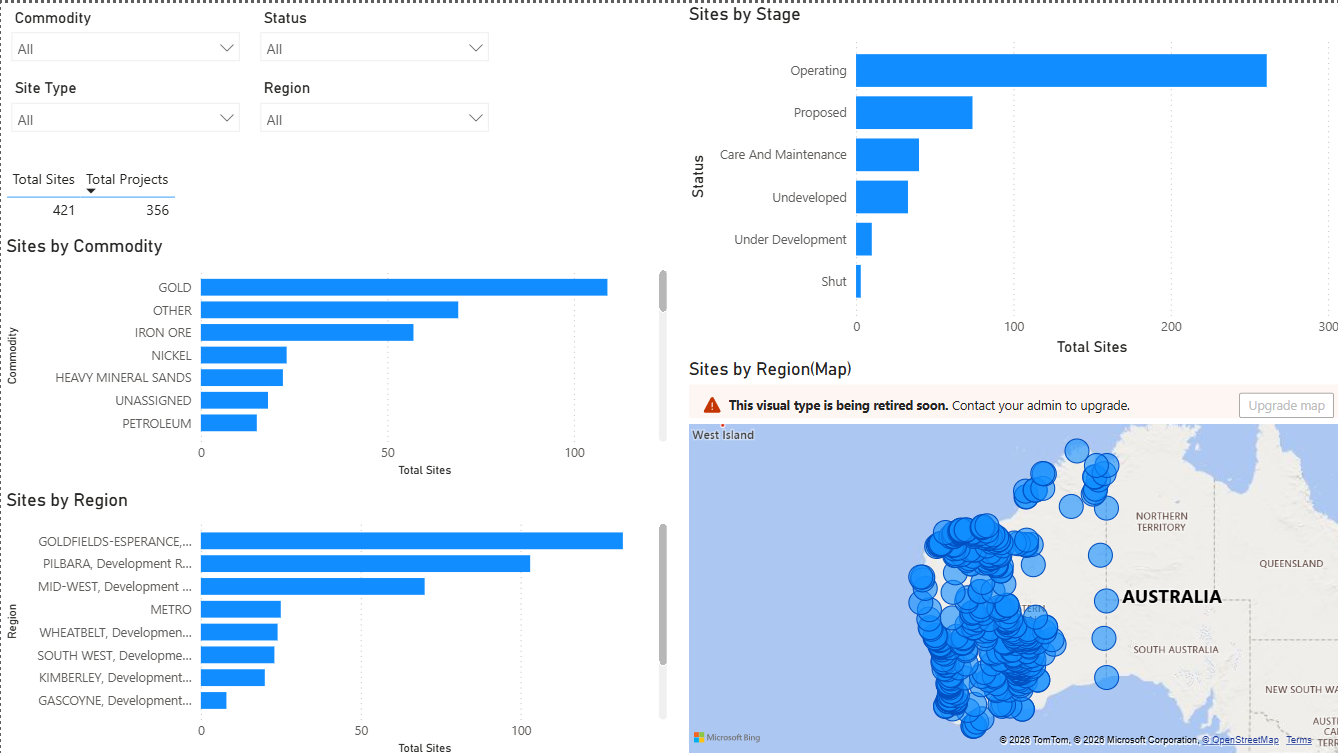
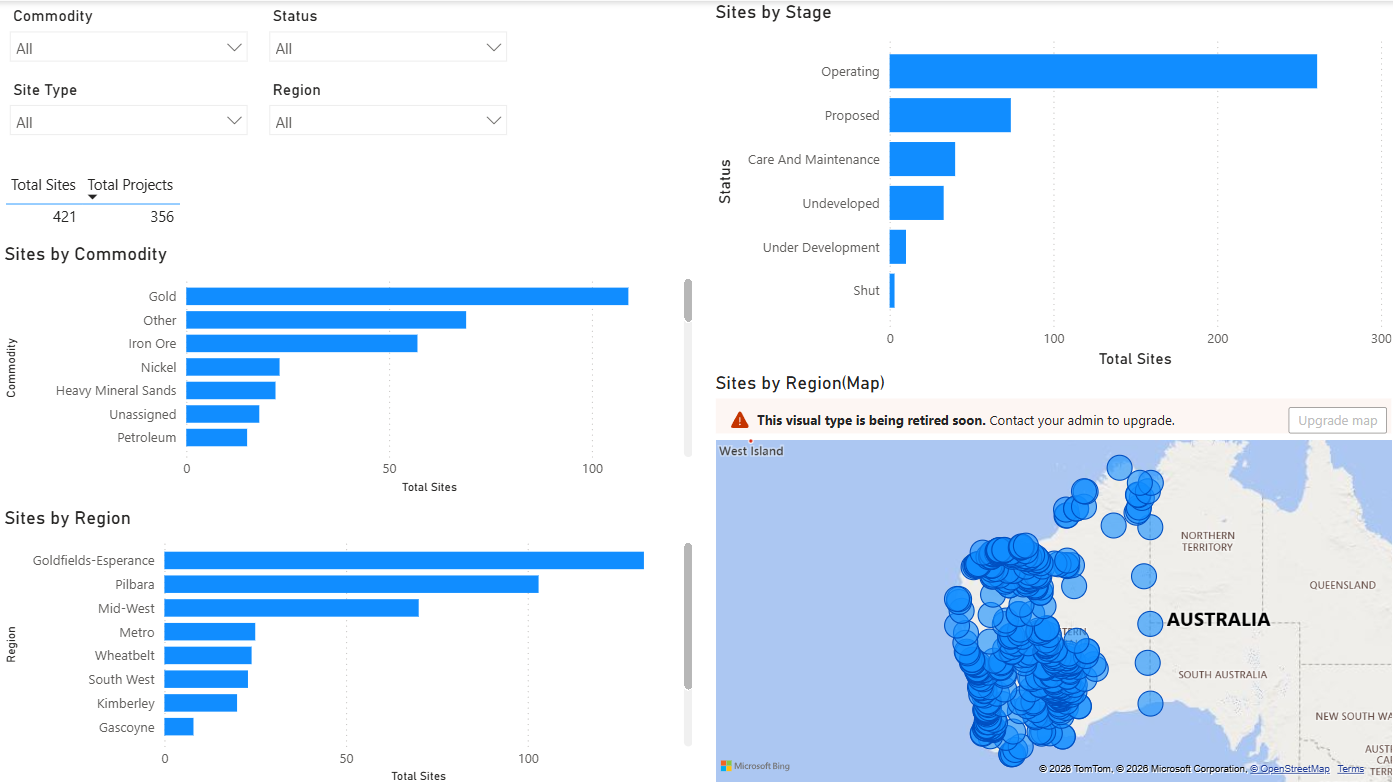
Update Power BI Dashboard with updated 'sites' table and synchronize with the new version of Power BI file. Update screenshots of the new dashboard and write new README.md description for version 2 of the dashboard.

diff --git a/README.md b/README.md
@@ -34,6 +34,7 @@ WA_Mining/
 │   └── 05_portfolio_summary.sql
 ├── POWER_BI/
 │   ├── wa_mining_dashboard_v1.pbix
+    ├── wa_mining_dashboard_v2.pbix
 │   └── screenshots/
 │       ├── dashboard-overview.png
 │       └── dashboard-regional-analysis.png
@@ -65,6 +66,8 @@ Purpose: Provide a high-level snapshot of the entire WA major resource portfolio
 
 Purpose: Enable deeper exploration by region, project, and site type
 ![alt text](dashboard_regional_analysis.png)
+
+wa_mining_dashboard_v2.pbix is the final version of the dashboard as it updates the name of developement_region and lga_name without the suffixes.
 
 ## Key Insights
 